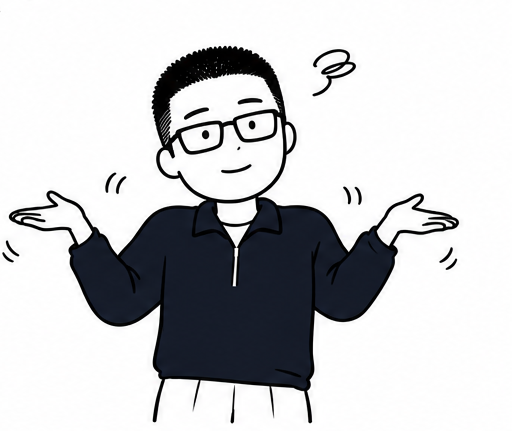
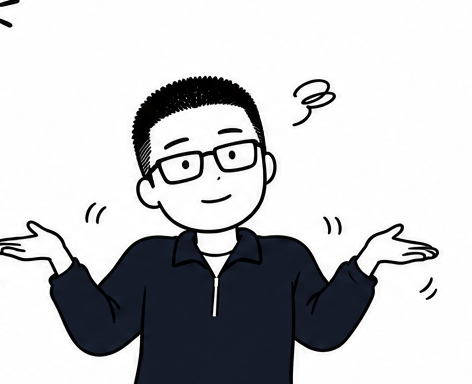
feat(图文模板): 三种封面变体 + 姿势切图收边
coverbig 大形象居中 / covertalk 形象+对话气泡说结论 / coversplit 上文下图；
卡片 JSON 支持 pose 字段覆盖默认映射；姿势切图去除相邻格标注串扰。

diff --git a/xhs/素材库/图文模板/card.html b/xhs/素材库/图文模板/card.html
@@ -26,6 +26,21 @@
   /* 卡型微调 */
   .cover h1 { font-size:118px; }
   .cover .sub { font-size:56px; font-weight:600; color:var(--ink); }
+  /* 封面变体 A：大形象居中 */
+  .coverbig h1 { font-size:118px; }
+  .coverbig .poseimg { max-height:720px; max-width:80%; margin-bottom:140px; }
+  /* 封面变体 B：形象+对话气泡（角色说出结论） */
+  .covertalk h1 { font-size:104px; }
+  .covertalk .poseimg { position:absolute; left:64px; bottom:150px; max-height:560px; max-width:44%; margin:0; }
+  .covertalk .quote { position:absolute; right:88px; bottom:480px; left:560px;
+    border:7px solid var(--ink); border-radius:56px; padding:44px 52px;
+    font-size:58px; line-height:1.5; font-weight:700; background:#fff; }
+  .covertalk .quote:after { content:""; position:absolute; left:-40px; bottom:60px;
+    border:22px solid transparent; border-right-color:var(--ink); }
+  /* 封面变体 C：上文下图分栏 */
+  .coversplit h1 { font-size:108px; }
+  .coversplit .poseimg { max-height:560px; max-width:74%; margin-bottom:110px;
+    border-top:3px solid #ddd6c4; padding-top:60px; }
   .contrast .bad { color:#8d876f; text-decoration:line-through; }
 </style>
 </head>

diff --git a/xhs/素材库/图文模板/make_cards.py b/xhs/素材库/图文模板/make_cards.py
@@ -28,9 +28,10 @@ def render(cards, outdir: Path):
         qb = f'<div class="quote">「{html.escape(quote)}」</div>' if quote else ""
         ip = (f'<img class="ipimg" src="file://{IP_IMG}">'
               if c.get("type") == "cover" and IP_IMG.exists() else "")
-        pose_file = Path(__file__).parent / f"{POSE_MAP.get(c.get('type', ''), '')}.png"
+        pose_name = c.get("pose") or POSE_MAP.get(c.get("type", ""), "")
+        pose_file = Path(__file__).parent / f"{pose_name}.png"
         pose = (f'<img class="poseimg" src="file://{pose_file}">'
-                if c.get("type") in POSE_MAP and pose_file.exists() else "")
+                if pose_name and pose_file.exists() else "")
         page = (TPL.replace("{{POSE_BLOCK}}", pose)
                    .replace("{{IP_BLOCK}}", ip)
                    .replace("{{TYPE}}", c.get("type", ""))
